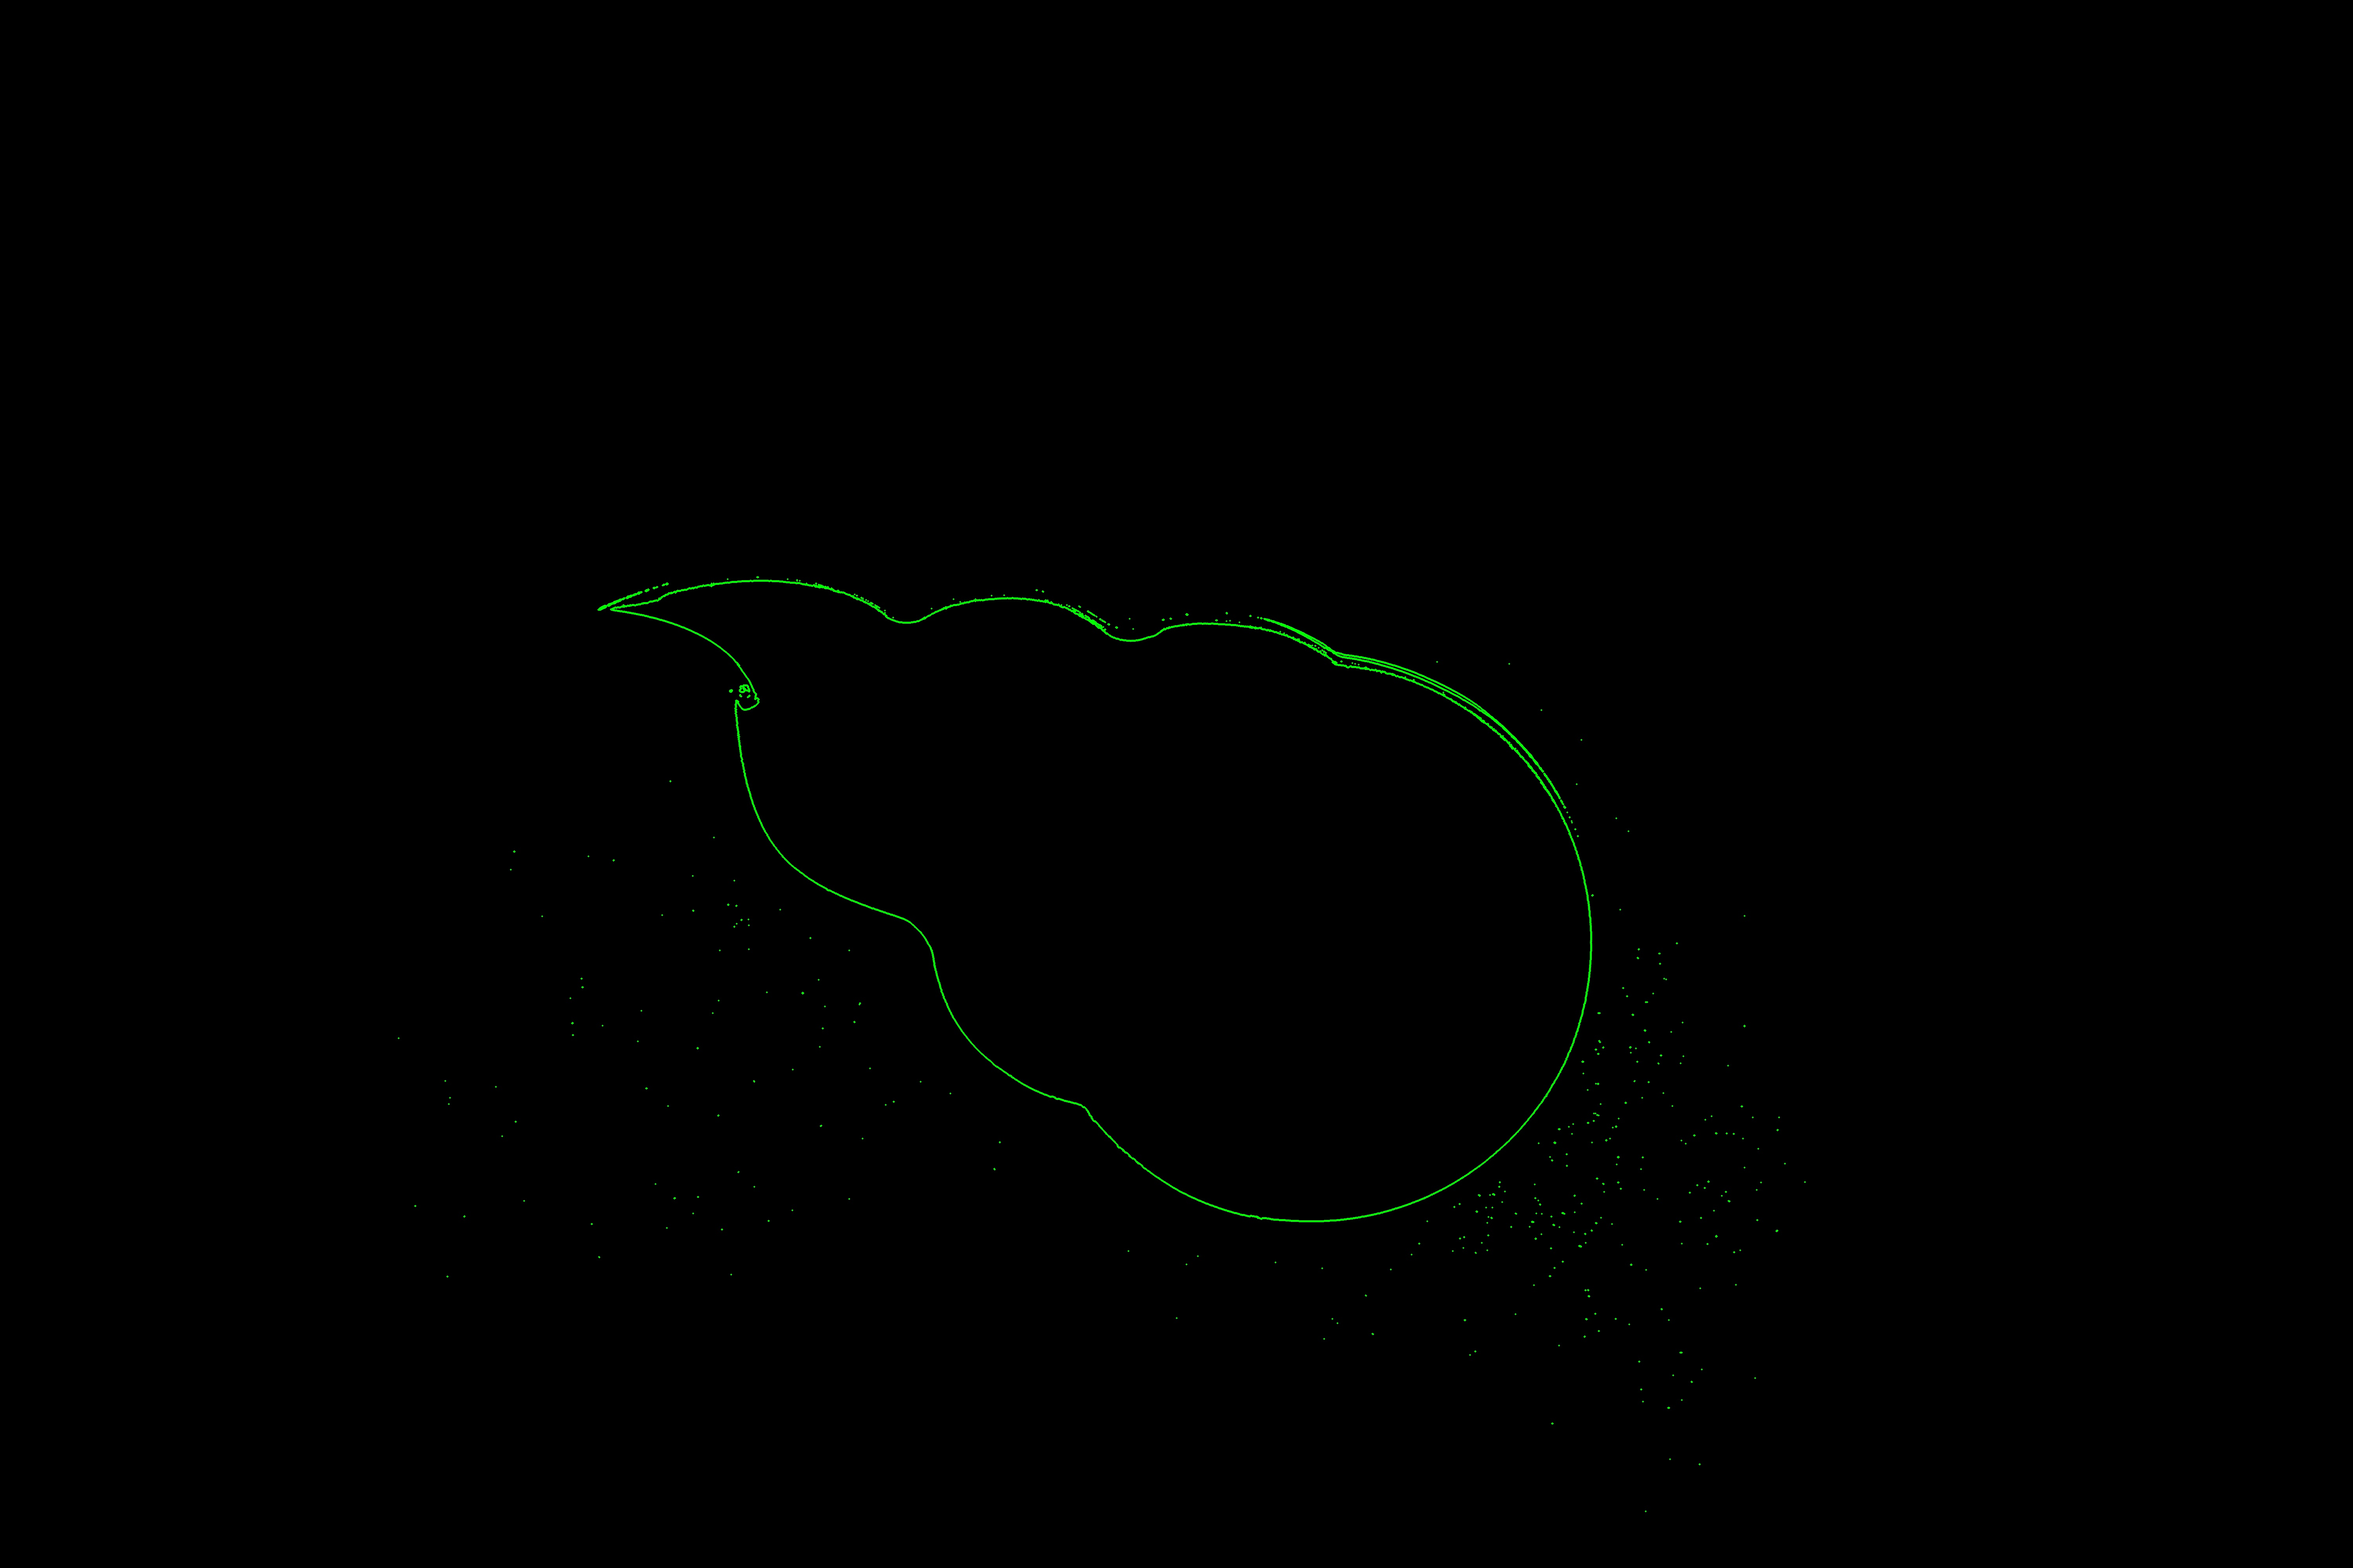
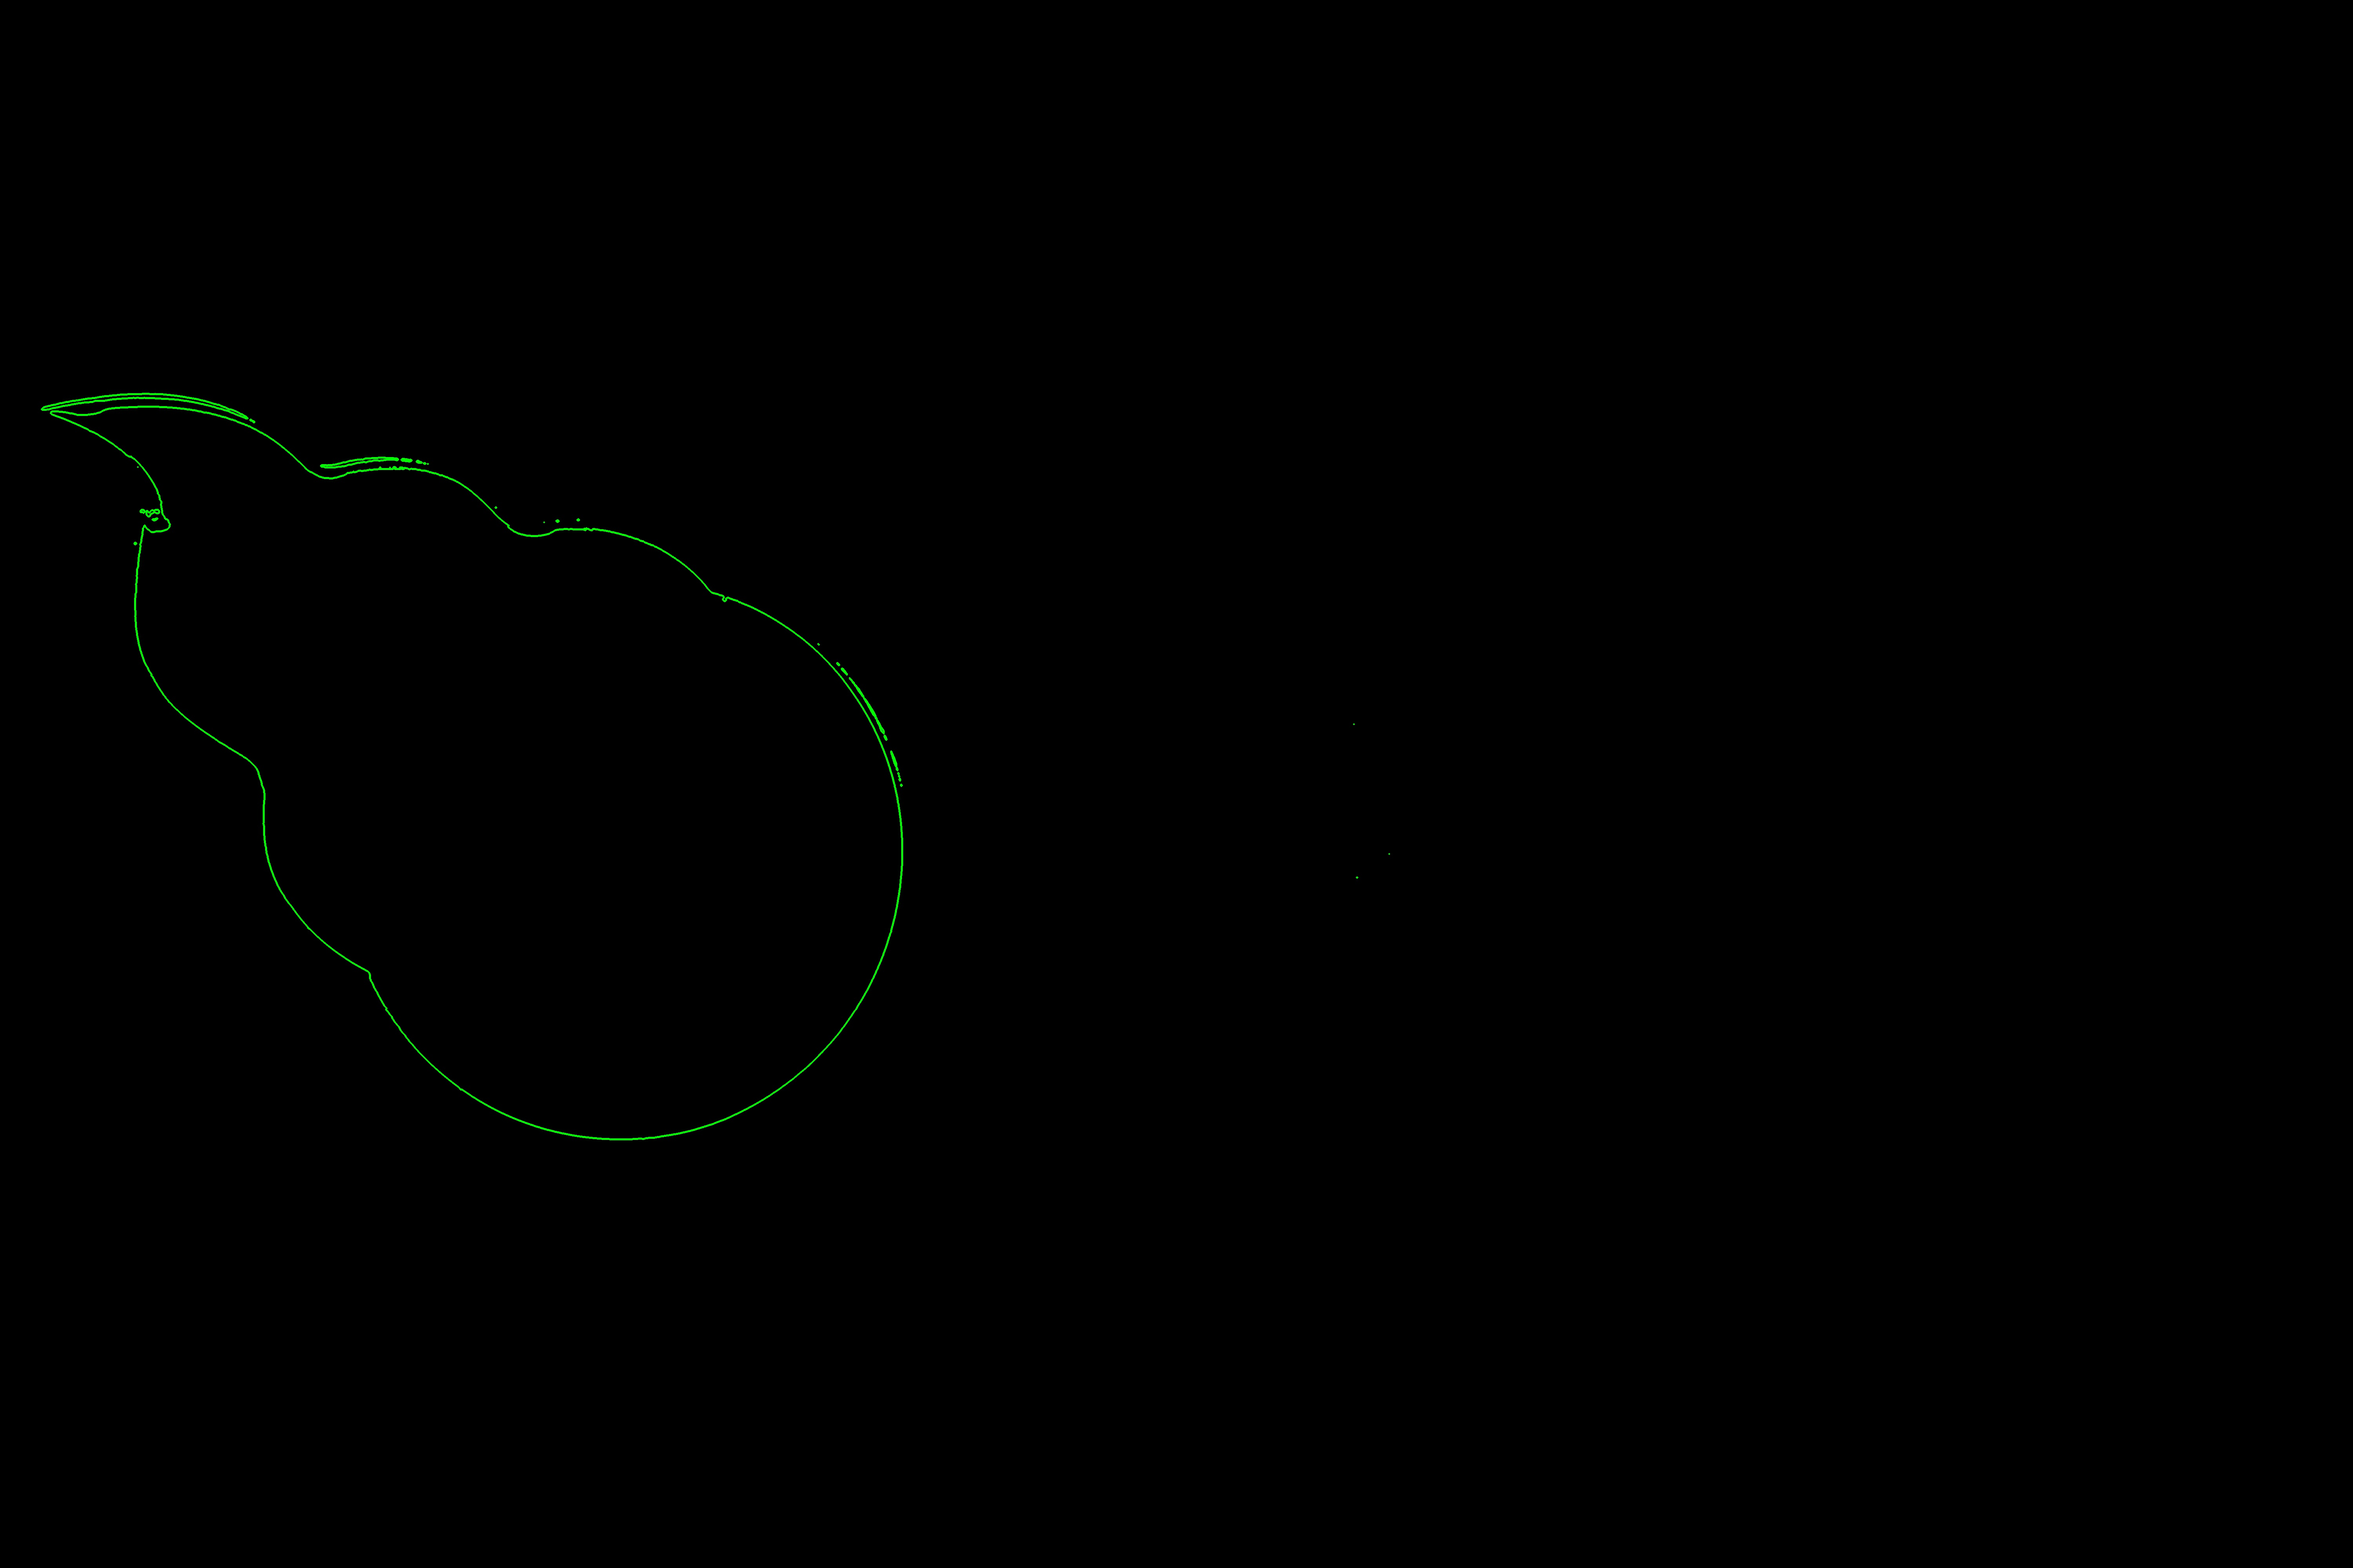
turns out if you add a blur filter, outline detection is easier. thank you michael reeves

diff --git a/contours.py b/contours.py
@@ -3,12 +3,13 @@ import cv2 as cv
 from matplotlib import pyplot as plt
 
 def get_outline(image):
-    gray = cv.cvtColor(image, cv.COLOR_BGR2GRAY)
+    blur = cv.blur(image,(5,5))
+    gray = cv.cvtColor(blur, cv.COLOR_BGR2GRAY)
     pixel_values = image.reshape((-1, 3))
     pixel_values = np.float32(pixel_values)
     criteria = (cv.TERM_CRITERIA_EPS + cv.TERM_CRITERIA_MAX_ITER)
-    # ret, mask = cv.threshold(gray, 152, 166, cv.THRESH_BINARY)
-    # contours, hierarchy = cv.findContours(mask, cv.RETR_EXTERNAL, cv.CHAIN_APPROX_NONE)
-    # img_contour = np.zeros(image.shape)
-    # modImage = cv.drawContours(img_contour, contours, -1, (0, 255, 0), 3)
-    # return modImage
+    ret, mask = cv.threshold(gray, 140, 255, cv.THRESH_BINARY)
+    contours, hierarchy = cv.findContours(mask, cv.RETR_EXTERNAL, cv.CHAIN_APPROX_NONE)
+    img_contour = np.zeros(image.shape)
+    modImage = cv.drawContours(img_contour, contours, -1, (0, 255, 0), 3)
+    return modImage

diff --git a/app.py b/app.py
@@ -9,11 +9,7 @@ from feature_match import align_images
 # try this https://stackoverflow.com/questions/54589566/how-to-detect-edge-points-of-an-object-using-opencv-python
 
 directory = os.getcwd()
-<<<<<<< HEAD
-input = os.path.join(directory, 'data\IMG_3788.jpg')
-=======
 input = os.path.join(directory, 'data\IMG_3786.jpg')
->>>>>>> 05ef0d75ddaea42dcea9ee7417458bb8e8998778
 reference = os.path.join(directory, 'data\\falcons_reference.jpg')
 image = cv.imread(input, cv.IMREAD_COLOR)
 template = cv.imread(reference, cv.IMREAD_COLOR)

diff --git a/app_segmentation.py b/app_segmentation.py
@@ -9,7 +9,7 @@ from contours import get_outline
 # try this https://stackoverflow.com/questions/54589566/how-to-detect-edge-points-of-an-object-using-opencv-python
 
 directory = os.getcwd()
-input = os.path.join(directory, 'data\\titans_reference.jpg')
+input = os.path.join(directory, 'data\IMG_3792.jpg')
 reference = os.path.join(directory, 'data\\falcons_reference.jpg')
 image = cv.imread(input, cv.IMREAD_COLOR)
 
